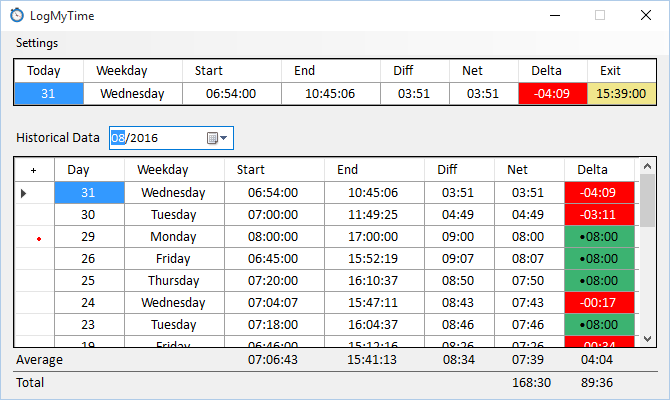
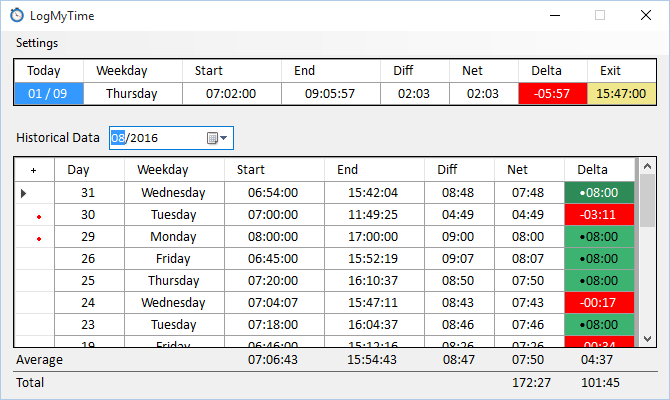
Fixed GUI issues caused by the last commit

diff --git a/LogMyTime/View/Main.Designer.cs b/LogMyTime/View/Main.Designer.cs
@@ -43,15 +43,6 @@ namespace LogMyTime
             this.showApp = new System.Windows.Forms.ToolStripMenuItem();
             this.closeApp = new System.Windows.Forms.ToolStripMenuItem();
             this.gridReport = new System.Windows.Forms.DataGridView();
-            this.clMonth = new System.Windows.Forms.DataGridViewTextBoxColumn();
-            this.clDayReport = new System.Windows.Forms.DataGridViewTextBoxColumn();
-            this.clWeekdayReport = new System.Windows.Forms.DataGridViewTextBoxColumn();
-            this.clStartReport = new System.Windows.Forms.DataGridViewTextBoxColumn();
-            this.clEndReport = new System.Windows.Forms.DataGridViewTextBoxColumn();
-            this.clDiffReport = new System.Windows.Forms.DataGridViewTextBoxColumn();
-            this.clNetReport = new System.Windows.Forms.DataGridViewTextBoxColumn();
-            this.clDeltaReport = new System.Windows.Forms.DataGridViewTextBoxColumn();
-            this.clCommentReport = new System.Windows.Forms.DataGridViewTextBoxColumn();
             this.clipboardMenu = new System.Windows.Forms.ContextMenuStrip(this.components);
             this.copyCellToolStripMenuItem = new System.Windows.Forms.ToolStripMenuItem();
             this.copyRowToolStripMenuItem = new System.Windows.Forms.ToolStripMenuItem();
@@ -82,6 +73,16 @@ namespace LogMyTime
             this.lblAvgDelta = new System.Windows.Forms.Label();
             this.lblTotalNet = new System.Windows.Forms.Label();
             this.lblTotalDelta = new System.Windows.Forms.Label();
+            this.clMonth = new System.Windows.Forms.DataGridViewTextBoxColumn();
+            this.clDayReport = new System.Windows.Forms.DataGridViewTextBoxColumn();
+            this.clWeekdayReport = new System.Windows.Forms.DataGridViewTextBoxColumn();
+            this.clStartReport = new System.Windows.Forms.DataGridViewTextBoxColumn();
+            this.clEndReport = new System.Windows.Forms.DataGridViewTextBoxColumn();
+            this.clDiffReport = new System.Windows.Forms.DataGridViewTextBoxColumn();
+            this.clNetReport = new System.Windows.Forms.DataGridViewTextBoxColumn();
+            this.clDeltaReport = new System.Windows.Forms.DataGridViewTextBoxColumn();
+            this.clCommentReport = new System.Windows.Forms.DataGridViewTextBoxColumn();
+            this.clExitReport = new System.Windows.Forms.DataGridViewTextBoxColumn();
             this.popupMenu.SuspendLayout();
             ((System.ComponentModel.ISupportInitialize)(this.gridReport)).BeginInit();
             this.clipboardMenu.SuspendLayout();
@@ -156,7 +157,8 @@ namespace LogMyTime
             this.clDiffReport,
             this.clNetReport,
             this.clDeltaReport,
-            this.clCommentReport});
+            this.clCommentReport,
+            this.clExitReport});
             this.gridReport.ContextMenuStrip = this.clipboardMenu;
             dataGridViewCellStyle2.Alignment = System.Windows.Forms.DataGridViewContentAlignment.MiddleCenter;
             dataGridViewCellStyle2.BackColor = System.Drawing.SystemColors.Window;
@@ -183,89 +185,6 @@ namespace LogMyTime
             this.gridReport.RowHeaderMouseDoubleClick += new System.Windows.Forms.DataGridViewCellMouseEventHandler(this.gridReport_RowHeaderMouseDoubleClick);
             this.gridReport.RowPostPaint += new System.Windows.Forms.DataGridViewRowPostPaintEventHandler(this.gridReport_RowPostPaint);
             this.gridReport.KeyUp += new System.Windows.Forms.KeyEventHandler(this.gridReport_KeyUp);
-            // 
-            // clMonth
-            // 
-            this.clMonth.DataPropertyName = "Month";
-            this.clMonth.HeaderText = "Month";
-            this.clMonth.Name = "clMonth";
-            this.clMonth.ReadOnly = true;
-            this.clMonth.SortMode = System.Windows.Forms.DataGridViewColumnSortMode.NotSortable;
-            this.clMonth.Visible = false;
-            // 
-            // clDayReport
-            // 
-            this.clDayReport.DataPropertyName = "Day";
-            this.clDayReport.HeaderText = "Day";
-            this.clDayReport.Name = "clDayReport";
-            this.clDayReport.ReadOnly = true;
-            this.clDayReport.Resizable = System.Windows.Forms.DataGridViewTriState.False;
-            this.clDayReport.SortMode = System.Windows.Forms.DataGridViewColumnSortMode.NotSortable;
-            this.clDayReport.Width = 70;
-            // 
-            // clWeekdayReport
-            // 
-            this.clWeekdayReport.DataPropertyName = "Weekday";
-            this.clWeekdayReport.HeaderText = "Weekday";
-            this.clWeekdayReport.Name = "clWeekdayReport";
-            this.clWeekdayReport.ReadOnly = true;
-            this.clWeekdayReport.SortMode = System.Windows.Forms.DataGridViewColumnSortMode.NotSortable;
-            // 
-            // clStartReport
-            // 
-            this.clStartReport.DataPropertyName = "Start";
-            this.clStartReport.HeaderText = "Start";
-            this.clStartReport.Name = "clStartReport";
-            this.clStartReport.ReadOnly = true;
-            this.clStartReport.Resizable = System.Windows.Forms.DataGridViewTriState.False;
-            this.clStartReport.SortMode = System.Windows.Forms.DataGridViewColumnSortMode.NotSortable;
-            // 
-            // clEndReport
-            // 
-            this.clEndReport.DataPropertyName = "End";
-            this.clEndReport.HeaderText = "End";
-            this.clEndReport.Name = "clEndReport";
-            this.clEndReport.ReadOnly = true;
-            this.clEndReport.Resizable = System.Windows.Forms.DataGridViewTriState.False;
-            this.clEndReport.SortMode = System.Windows.Forms.DataGridViewColumnSortMode.NotSortable;
-            // 
-            // clDiffReport
-            // 
-            this.clDiffReport.DataPropertyName = "Difference";
-            this.clDiffReport.HeaderText = "Diff";
-            this.clDiffReport.Name = "clDiffReport";
-            this.clDiffReport.ReadOnly = true;
-            this.clDiffReport.Resizable = System.Windows.Forms.DataGridViewTriState.False;
-            this.clDiffReport.SortMode = System.Windows.Forms.DataGridViewColumnSortMode.NotSortable;
-            this.clDiffReport.Width = 70;
-            // 
-            // clNetReport
-            // 
-            this.clNetReport.DataPropertyName = "Net";
-            this.clNetReport.HeaderText = "Net";
-            this.clNetReport.Name = "clNetReport";
-            this.clNetReport.ReadOnly = true;
-            this.clNetReport.Resizable = System.Windows.Forms.DataGridViewTriState.False;
-            this.clNetReport.SortMode = System.Windows.Forms.DataGridViewColumnSortMode.NotSortable;
-            this.clNetReport.Width = 70;
-            // 
-            // clDeltaReport
-            // 
-            this.clDeltaReport.DataPropertyName = "Delta";
-            this.clDeltaReport.HeaderText = "Delta";
-            this.clDeltaReport.Name = "clDeltaReport";
-            this.clDeltaReport.ReadOnly = true;
-            this.clDeltaReport.Resizable = System.Windows.Forms.DataGridViewTriState.False;
-            this.clDeltaReport.SortMode = System.Windows.Forms.DataGridViewColumnSortMode.NotSortable;
-            this.clDeltaReport.Width = 70;
-            // 
-            // clCommentReport
-            // 
-            this.clCommentReport.DataPropertyName = "Comment";
-            this.clCommentReport.HeaderText = "Comment";
-            this.clCommentReport.Name = "clCommentReport";
-            this.clCommentReport.ReadOnly = true;
-            this.clCommentReport.Visible = false;
             // 
             // clipboardMenu
             // 
@@ -559,6 +478,97 @@ namespace LogMyTime
             this.lblTotalDelta.Text = "00:00";
             this.lblTotalDelta.TextChanged += new System.EventHandler(this.lblLabel_TextChanged);
             // 
+            // clMonth
+            // 
+            this.clMonth.DataPropertyName = "Month";
+            this.clMonth.HeaderText = "Month";
+            this.clMonth.Name = "clMonth";
+            this.clMonth.ReadOnly = true;
+            this.clMonth.SortMode = System.Windows.Forms.DataGridViewColumnSortMode.NotSortable;
+            this.clMonth.Visible = false;
+            // 
+            // clDayReport
+            // 
+            this.clDayReport.DataPropertyName = "Day";
+            this.clDayReport.HeaderText = "Day";
+            this.clDayReport.Name = "clDayReport";
+            this.clDayReport.ReadOnly = true;
+            this.clDayReport.Resizable = System.Windows.Forms.DataGridViewTriState.False;
+            this.clDayReport.SortMode = System.Windows.Forms.DataGridViewColumnSortMode.NotSortable;
+            this.clDayReport.Width = 70;
+            // 
+            // clWeekdayReport
+            // 
+            this.clWeekdayReport.DataPropertyName = "Weekday";
+            this.clWeekdayReport.HeaderText = "Weekday";
+            this.clWeekdayReport.Name = "clWeekdayReport";
+            this.clWeekdayReport.ReadOnly = true;
+            this.clWeekdayReport.SortMode = System.Windows.Forms.DataGridViewColumnSortMode.NotSortable;
+            // 
+            // clStartReport
+            // 
+            this.clStartReport.DataPropertyName = "Start";
+            this.clStartReport.HeaderText = "Start";
+            this.clStartReport.Name = "clStartReport";
+            this.clStartReport.ReadOnly = true;
+            this.clStartReport.Resizable = System.Windows.Forms.DataGridViewTriState.False;
+            this.clStartReport.SortMode = System.Windows.Forms.DataGridViewColumnSortMode.NotSortable;
+            // 
+            // clEndReport
+            // 
+            this.clEndReport.DataPropertyName = "End";
+            this.clEndReport.HeaderText = "End";
+            this.clEndReport.Name = "clEndReport";
+            this.clEndReport.ReadOnly = true;
+            this.clEndReport.Resizable = System.Windows.Forms.DataGridViewTriState.False;
+            this.clEndReport.SortMode = System.Windows.Forms.DataGridViewColumnSortMode.NotSortable;
+            // 
+            // clDiffReport
+            // 
+            this.clDiffReport.DataPropertyName = "Difference";
+            this.clDiffReport.HeaderText = "Diff";
+            this.clDiffReport.Name = "clDiffReport";
+            this.clDiffReport.ReadOnly = true;
+            this.clDiffReport.Resizable = System.Windows.Forms.DataGridViewTriState.False;
+            this.clDiffReport.SortMode = System.Windows.Forms.DataGridViewColumnSortMode.NotSortable;
+            this.clDiffReport.Width = 70;
+            // 
+            // clNetReport
+            // 
+            this.clNetReport.DataPropertyName = "Net";
+            this.clNetReport.HeaderText = "Net";
+            this.clNetReport.Name = "clNetReport";
+            this.clNetReport.ReadOnly = true;
+            this.clNetReport.Resizable = System.Windows.Forms.DataGridViewTriState.False;
+            this.clNetReport.SortMode = System.Windows.Forms.DataGridViewColumnSortMode.NotSortable;
+            this.clNetReport.Width = 70;
+            // 
+            // clDeltaReport
+            // 
+            this.clDeltaReport.DataPropertyName = "Delta";
+            this.clDeltaReport.HeaderText = "Delta";
+            this.clDeltaReport.Name = "clDeltaReport";
+            this.clDeltaReport.ReadOnly = true;
+            this.clDeltaReport.Resizable = System.Windows.Forms.DataGridViewTriState.False;
+            this.clDeltaReport.SortMode = System.Windows.Forms.DataGridViewColumnSortMode.NotSortable;
+            this.clDeltaReport.Width = 70;
+            // 
+            // clCommentReport
+            // 
+            this.clCommentReport.DataPropertyName = "Comment";
+            this.clCommentReport.HeaderText = "Comment";
+            this.clCommentReport.Name = "clCommentReport";
+            this.clCommentReport.ReadOnly = true;
+            this.clCommentReport.Visible = false;
+            // 
+            // clExitReport
+            // 
+            this.clExitReport.DataPropertyName = "ExpectedEnd";
+            this.clExitReport.HeaderText = "Exit";
+            this.clExitReport.Name = "clExitReport";
+            this.clExitReport.ReadOnly = true;
+            this.clExitReport.Visible = false;
+            // 
             // MainView
             // 
             this.AutoScaleDimensions = new System.Drawing.SizeF(7F, 15F);
@@ -630,15 +640,6 @@ namespace LogMyTime
         private System.Windows.Forms.ToolStripMenuItem copyTableToolStripMenuItem;
         private System.Windows.Forms.ToolStripSeparator toolStripMenuItem1;
         private System.Windows.Forms.ToolStripMenuItem deleteEntryToolStripMenuItem;
-        private System.Windows.Forms.DataGridViewTextBoxColumn clMonth;
-        private System.Windows.Forms.DataGridViewTextBoxColumn clDayReport;
-        private System.Windows.Forms.DataGridViewTextBoxColumn clWeekdayReport;
-        private System.Windows.Forms.DataGridViewTextBoxColumn clStartReport;
-        private System.Windows.Forms.DataGridViewTextBoxColumn clEndReport;
-        private System.Windows.Forms.DataGridViewTextBoxColumn clDiffReport;
-        private System.Windows.Forms.DataGridViewTextBoxColumn clNetReport;
-        private System.Windows.Forms.DataGridViewTextBoxColumn clDeltaReport;
-        private System.Windows.Forms.DataGridViewTextBoxColumn clCommentReport;
         private System.Windows.Forms.DataGridViewTextBoxColumn clToday;
         private System.Windows.Forms.DataGridViewTextBoxColumn clWeekday;
         private System.Windows.Forms.DataGridViewTextBoxColumn clStart;
@@ -648,6 +649,16 @@ namespace LogMyTime
         private System.Windows.Forms.DataGridViewTextBoxColumn clDelta;
         private System.Windows.Forms.DataGridViewTextBoxColumn clExit;
         private System.Windows.Forms.DataGridViewTextBoxColumn clComment;
+        private System.Windows.Forms.DataGridViewTextBoxColumn clMonth;
+        private System.Windows.Forms.DataGridViewTextBoxColumn clDayReport;
+        private System.Windows.Forms.DataGridViewTextBoxColumn clWeekdayReport;
+        private System.Windows.Forms.DataGridViewTextBoxColumn clStartReport;
+        private System.Windows.Forms.DataGridViewTextBoxColumn clEndReport;
+        private System.Windows.Forms.DataGridViewTextBoxColumn clDiffReport;
+        private System.Windows.Forms.DataGridViewTextBoxColumn clNetReport;
+        private System.Windows.Forms.DataGridViewTextBoxColumn clDeltaReport;
+        private System.Windows.Forms.DataGridViewTextBoxColumn clCommentReport;
+        private System.Windows.Forms.DataGridViewTextBoxColumn clExitReport;
     }
 }
 

diff --git a/LogMyTime/Model/MainModel.cs b/LogMyTime/Model/MainModel.cs
@@ -134,7 +134,7 @@ namespace LogMyTime.Model
                 }
             }
             
-            return new DayInfoRow(today.GetMonth(), today.GetDay(), today.GetWeekday(), today.GetFormattedFirstActivity(), today.GetFormattedLastActivity(), Utils.MinutesToString(Diff), Utils.MinutesToString(Net), (RoundedDelta? "•" : "")+Utils.MinutesToString(Delta), Utils.DatetimeToTime(expected), today.GetComment());
+            return new DayInfoRow(today.GetMonth(), today.GetDay()+" / "+ today.GetMonth().Substring(4), today.GetWeekday(), today.GetFormattedFirstActivity(), today.GetFormattedLastActivity(), Utils.MinutesToString(Diff), Utils.MinutesToString(Net), (RoundedDelta? "•" : "")+Utils.MinutesToString(Delta), Utils.DatetimeToTime(expected), today.GetComment());
         }
 
         public void CalcMonth()

diff --git a/LogMyTime/View/Main.cs b/LogMyTime/View/Main.cs
@@ -175,7 +175,7 @@ namespace LogMyTime
         /* event funcs */
         private void frmMain_Load(object sender, EventArgs e)
         {
-            gridToday.Rows.Add("dd/mm/yyyy", "00:00:00", "00:00:00", "00:00", "00:00", "00:00");
+            gridToday.Rows.Add("dd/mm/yyyy", "00:00:00", "00:00:00", "00:00", "00:00", "00:00", "", "");
             todayRow = gridToday.Rows[0];
             Presenter.Load();
         }
